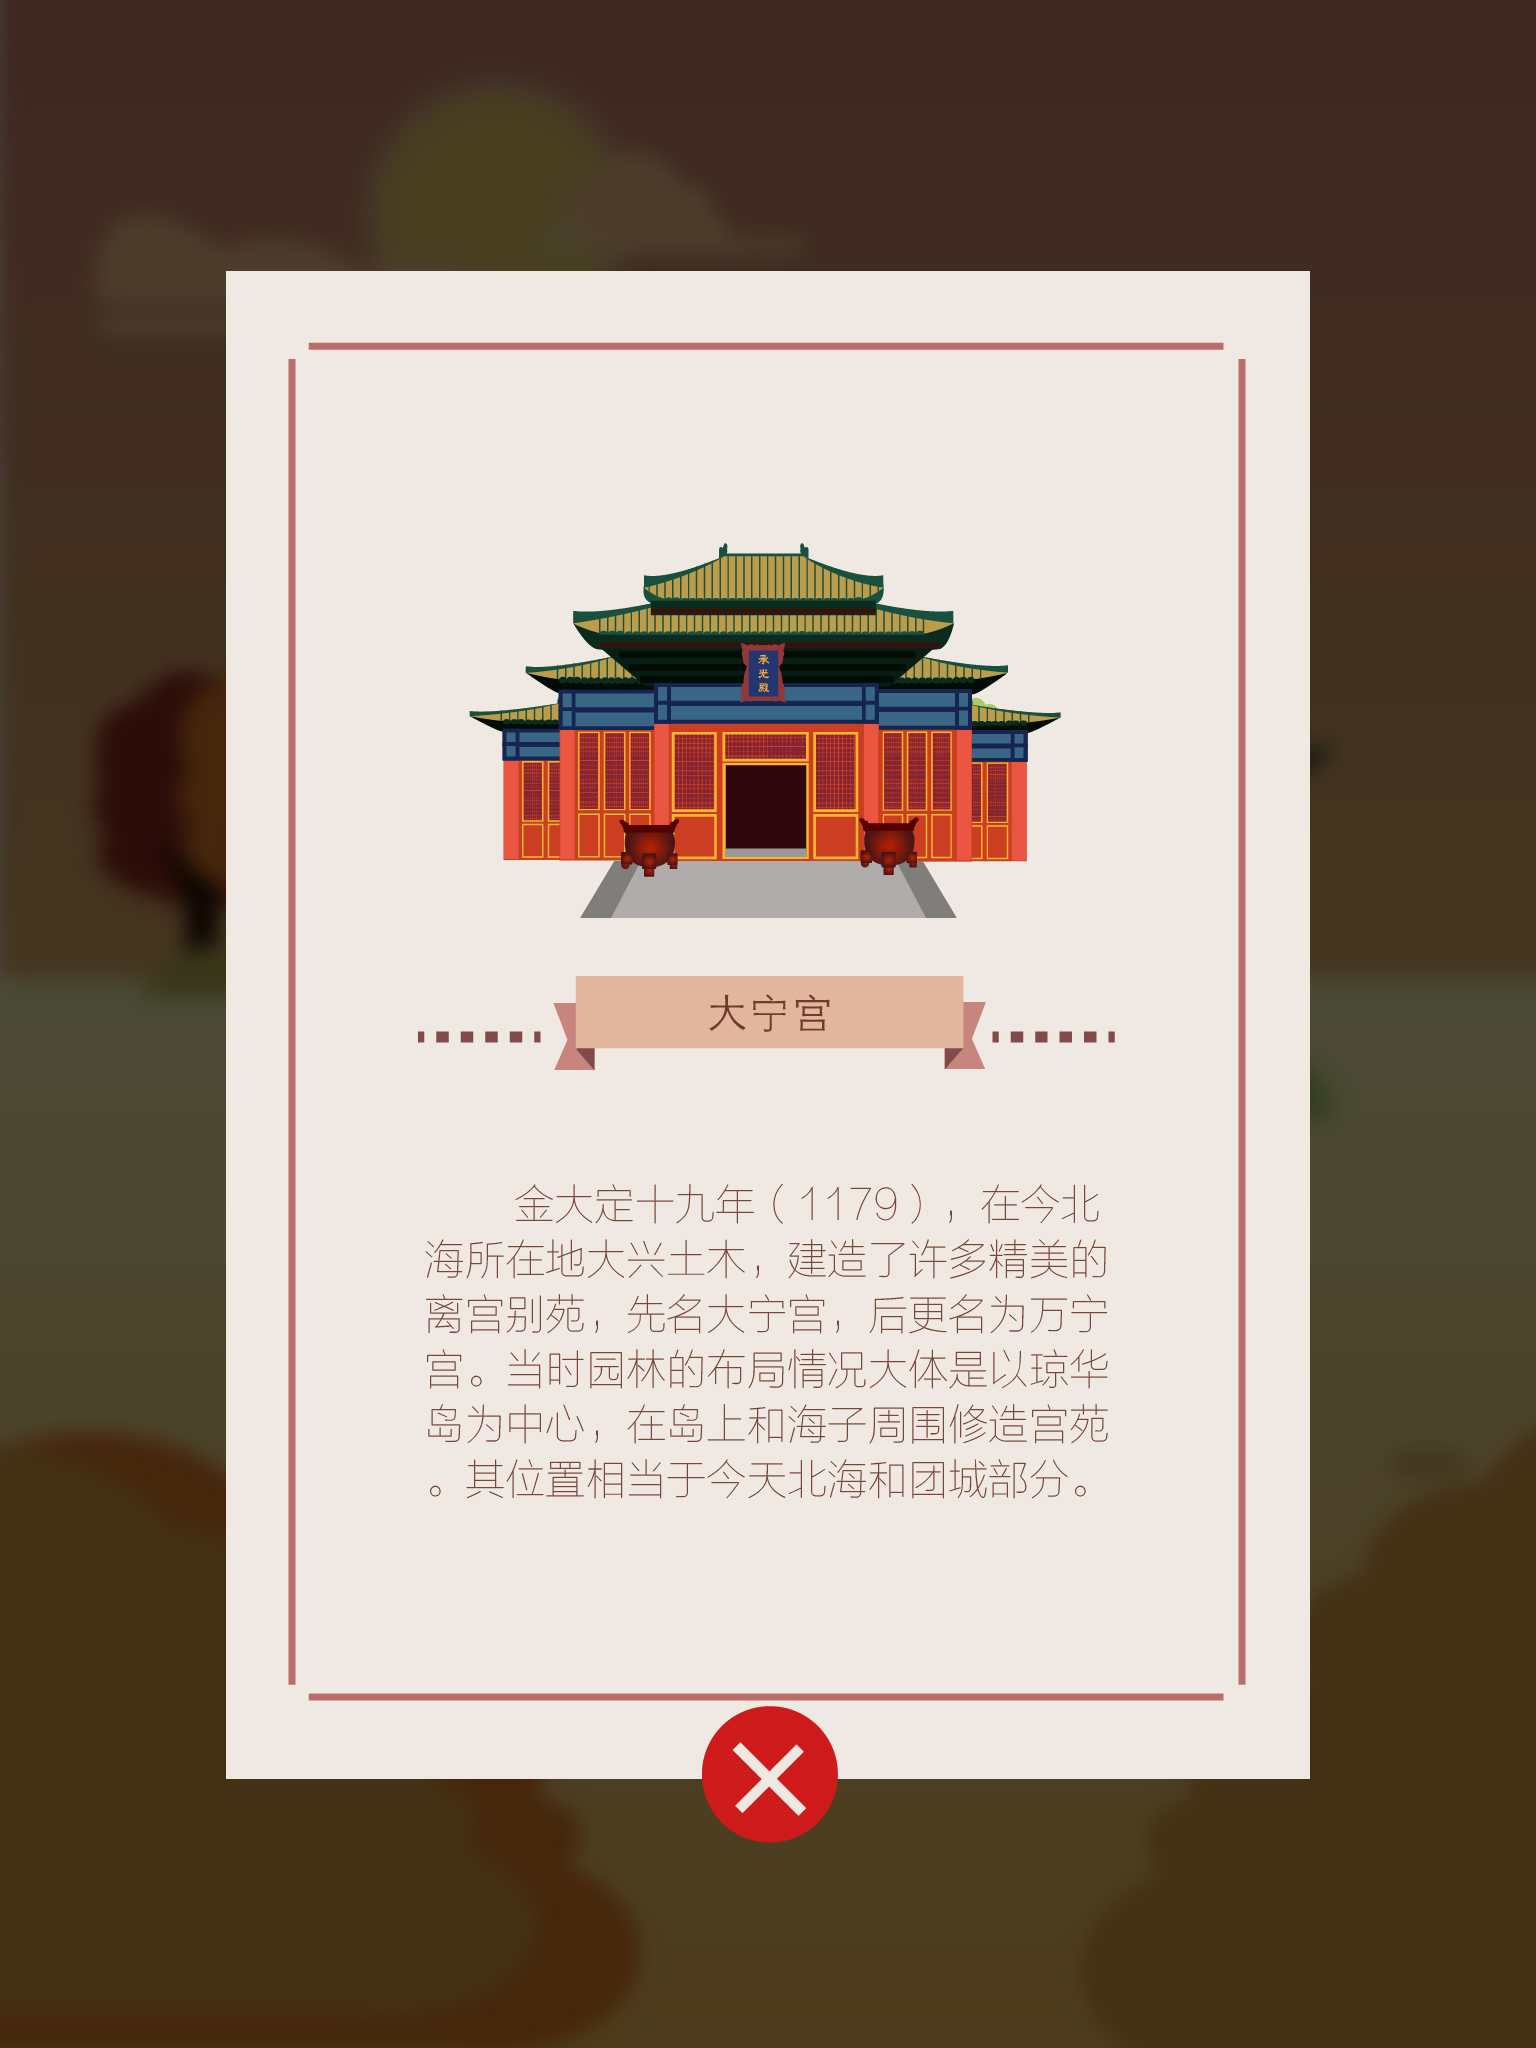
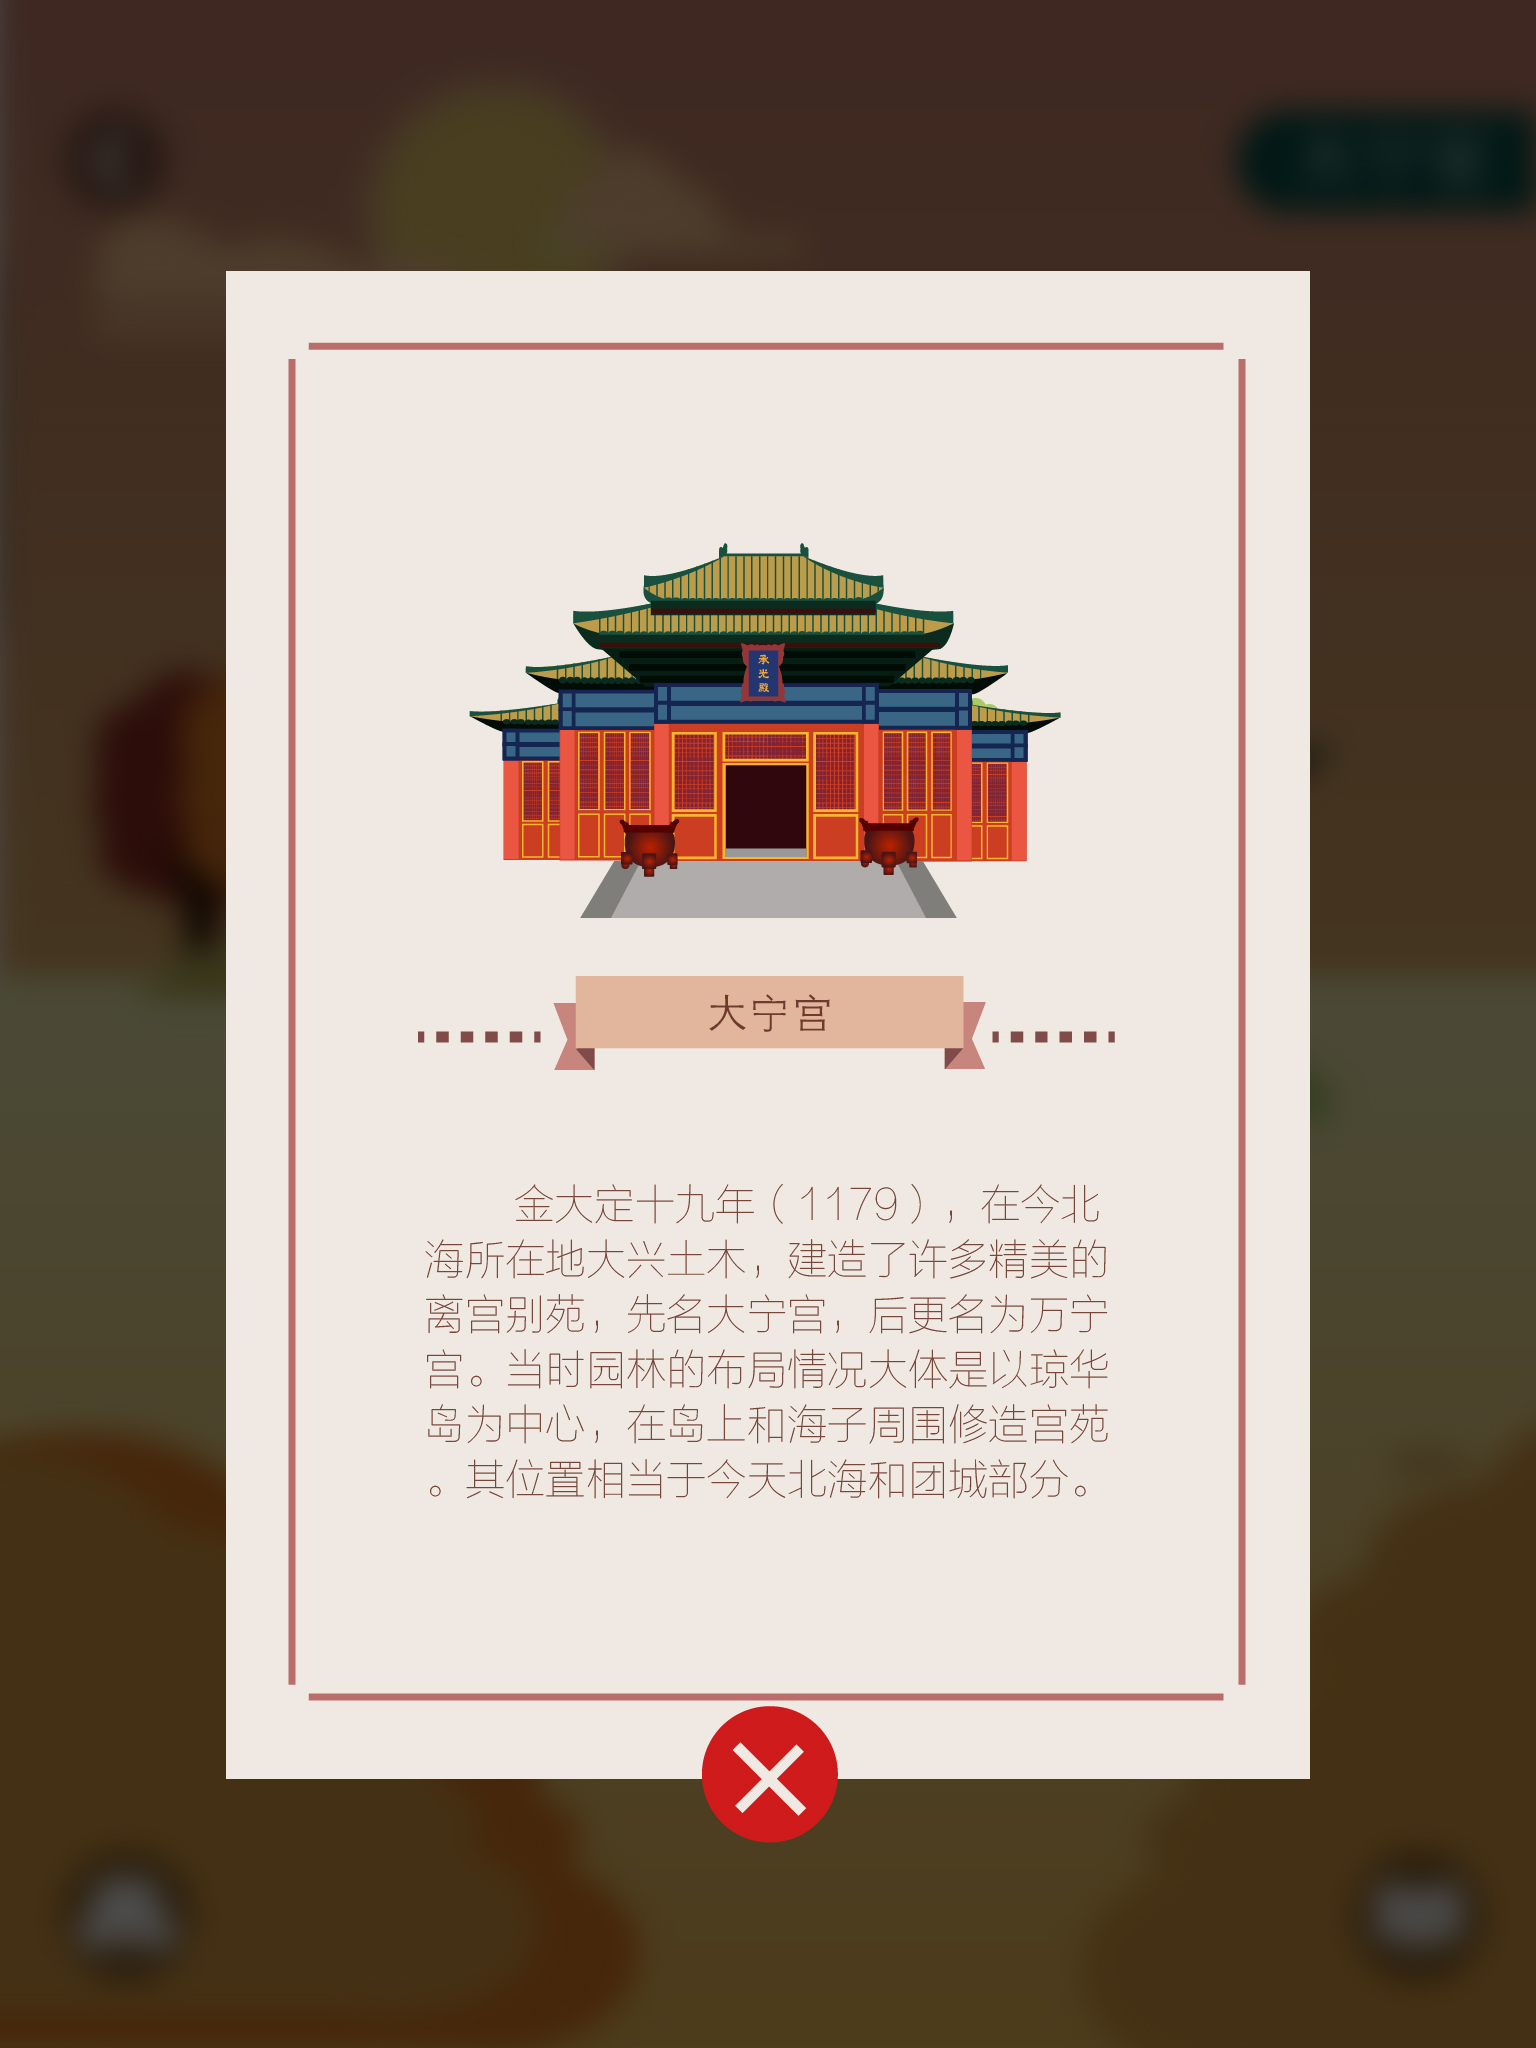
Update ZYXPadApp ...

Changed region(s): [[0.7812, 0.0312, 1.0, 0.125], [0.0625, 0.9062, 0.125, 0.9688], [0.9062, 0.9062, 0.9688, 0.9688]]

diff --git a/ZYXPadApp/skipPage/skipJs/buildingJs.js b/ZYXPadApp/skipPage/skipJs/buildingJs.js
@@ -1,8 +1,14 @@
-var swiperLength = 3;
-var pageType = 'jin';
+// var swiperLength = 3;
+// var pageType = 'jin';
+
+var swiperLength = parseInt(getUrlParam('length'));
+var pageType = getUrlParam('type');
+var init = parseInt(getUrlParam('init'));
 
 $(function(){
-    $('._infoPage').hide();
+    // $('._infoPage').hide();
+    loadingSwiper();
+
 });
 
 /**
@@ -10,30 +16,50 @@ $(function(){
  * @param {*} thisIndex 
  */
 var swiperChange = function(thisIndex){
-    if(thisIndex <= swiperLength){
-        $('._infoTitle>img').attr('src', '../skipImg/' + pageType + '/' + pageType + '_' + thisIndex + '_title.png');
-        $('._infoPage>img').attr('src', '../skipImg/' + pageType + '/' + pageType + '_' + thisIndex + '_1.jpg');
-    }else{
-        $('._infoTitle>img').attr('src', '../skipImg/' + pageType + '/' + pageType + '_1_title.png');
-        $('._infoPage>img').attr('src', '../skipImg/' + pageType + '/' + pageType + '_1_1.jpg');
+    if(thisIndex == 0){
+        $('._infoTitle>img').attr('src', 'skipImg/' + pageType + '/' + pageType + '_' + swiperLength + '_title.png');
+        $('._infoPage>img').attr('src', 'skipImg/' + pageType + '/' + pageType + '_' + swiperLength + '_1.jpg');
+    }
+    if(thisIndex <= swiperLength && thisIndex > 0){
+        $('._infoTitle>img').attr('src', 'skipImg/' + pageType + '/' + pageType + '_' + thisIndex + '_title.png');
+        $('._infoPage>img').attr('src', 'skipImg/' + pageType + '/' + pageType + '_' + thisIndex + '_1.jpg');
+    }
+    if(thisIndex == (swiperLength + 1)){
+        $('._infoTitle>img').attr('src', 'skipImg/' + pageType + '/' + pageType + '_1_title.png');
+        $('._infoPage>img').attr('src', 'skipImg/' + pageType + '/' + pageType + '_1_1.jpg');
     }
 };
 
 /**
  * swiper loading
  */
-var swiper = new Swiper('.swiper-container', {
-    initialSlide :0,
-    loop : true,
-    pagination: {
-        el: '.swiper-pagination',
-    },
-    on: {
-        slideChangeTransitionStart: function(){
-            swiperChange(this.activeIndex);
+var loadingSwiper = function(){
+    creatSwiper();
+    var swiper = new Swiper('.swiper-container', {
+        initialSlide :(init - 1),
+        loop : true,
+        pagination: {
+            el: '.swiper-pagination',
         },
-    },
-});
+        on: {
+            slideChangeTransitionStart: function(){
+                swiperChange(this.activeIndex);
+            },
+        },
+    });
+}
+
+var creatSwiper = function(){
+    $('.swiper-wrapper').empty();
+    for(var i = 1; i <= swiperLength; i++){
+        $('.swiper-wrapper').append(swiperHtml(i));
+    }
+}
+
+var swiperHtml = function(num){
+    return '<div class="swiper-slide"><img src="skipImg/' + pageType + '/' + pageType + '_' + num + '.jpg"></div>';
+}
+
 
 //back
 $('._back').on('click', function(){
@@ -57,4 +83,12 @@ $('._infoPage>div').on('click', function(){
 
 
 
-
+/**
+ * getUrlParam
+ * @param {urlName} name 
+ */
+function getUrlParam(name) {
+    var reg = new RegExp("(^|&)" + name + "=([^&]*)(&|$)");
+    var r = window.location.search.substr(1).match(reg); 
+    if (r != null) return unescape(r[2]); return null; 
+}

diff --git a/ZYXPadApp/skipPage/buildingPage.html b/ZYXPadApp/skipPage/buildingPage.html
@@ -1,0 +1,49 @@
+<!DOCTYPE html>
+<html lang="en">
+<head>
+  <meta charset="utf-8">
+  <title>Swiper demo</title>
+  <meta name="viewport" content="width=device-width, initial-scale=1, minimum-scale=1, maximum-scale=1">
+
+  <link rel="stylesheet" href="../_css/swiper/swiper.min.css">
+  <link rel="stylesheet" href="skipCss/buildingCss.css">
+
+</head>
+<body>
+    <!-- back button -->
+    <div class="_back">
+        <img src="skipImg/public/back.png">
+    </div>
+
+    <!-- info title -->
+    <div class="_infoTitle">
+       <img src="skipImg/jin/jin_1_title.png">
+    </div>
+
+    <!-- back index button -->
+    <div class="_backIndex">
+        <img src="skipImg/public/backIndex.png">
+    </div>
+    
+    <!-- info button -->
+    <div class="_info">
+        <img src="skipImg/public/info.png">
+    </div>
+    <!-- info page -->
+    <div class="_infoPage">
+        <img src="skipImg/jin/jin_1_1.jpg">
+        <div class="_closeInfo"></div>
+    </div>
+    <!-- Swiper -->
+    <div class="swiper-container">
+        <div class="swiper-wrapper">
+        </div>
+        <!-- Add Pagination -->
+        <div class="swiper-pagination"></div>
+    </div>
+    
+    <script src="skipJs/jquery.min.js"></script>
+    <script src="../_js/swiper/swiper.min.js"></script>
+    <script src="skipJs/buildingJs.js"></script>
+</body>
+</html>

diff --git a/ZYXPadApp/skipPage/mapPage.html b/ZYXPadApp/skipPage/mapPage.html
@@ -1,0 +1,38 @@
+<!DOCTYPE html>
+<html lang="en">
+<head>
+  <meta charset="utf-8">
+  <title>Swiper demo</title>
+  <meta name="viewport" content="width=device-width, initial-scale=1, minimum-scale=1, maximum-scale=1">
+
+  <link rel="stylesheet" href="../_css/swiper/swiper.min.css">
+  <link rel="stylesheet" href="skipCss/mapCss.css">
+
+</head>
+<body>
+    <div class="_main_div">
+        <img src="skipImg/jin/jin_bg.jpg">
+    </div>
+    <div class="swiper-container">
+        <div class="swiper-wrapper">
+            <div class="swiper-slide">
+                <img src="skipImg/jin/jin_info.png">
+            </div>
+            <div class="swiper-slide">
+                <img src="skipImg/jin/jin_map.png">
+            </div>
+            <div class="swiper-slide">
+                <img src="skipImg/jin/jin_str.png">
+            </div>
+        </div>
+        <!-- Add Pagination -->
+        <div class="swiper-pagination"></div>
+    </div>
+    <div class="_footerBtn">
+        <img src="skipImg/public/mapBtn.png">
+    </div>
+    <script src="skipJs/jquery.min.js"></script>
+    <script src="../_js/swiper/swiper.min.js"></script>
+    <script src="skipJs/mapJs.js"></script>
+</body>
+</html>

diff --git a/ZYXPadApp/skipPage/skipJs/mapJs.js b/ZYXPadApp/skipPage/skipJs/mapJs.js
@@ -1,0 +1,44 @@
+var pageType = getUrlParam('type');
+
+/**
+ * info title change
+ * @param {*} thisIndex 
+ */
+var swiperChange = function(thisIndex){
+    var info = 'skipImg/public/infoBtn.png';
+    var map = 'skipImg/public/mapBtn.png';
+    var str = 'skipImg/public/strBtn.png';
+    switch(thisIndex){
+        case 0: $('._footerBtn>img').attr('src', str);
+        break;
+        case 1: $('._footerBtn>img').attr('src', map);
+        break;
+        case 2: $('._footerBtn>img').attr('src', map);
+        break;
+        case 3: $('._footerBtn>img').attr('src', str);
+        break;
+        case 4: $('._footerBtn>img').attr('src', info);
+        break;
+    }
+};
+
+var swiper = new Swiper('.swiper-container', {
+    initialSlide :0,
+    on: {
+        slideChangeTransitionStart: function(){
+            console.log(this.activeIndex);
+            swiperChange(this.activeIndex);
+        },
+    },
+});
+
+
+/**
+ * getUrlParam
+ * @param {urlName} name 
+ */
+function getUrlParam(name) {
+    var reg = new RegExp("(^|&)" + name + "=([^&]*)(&|$)");
+    var r = window.location.search.substr(1).match(reg); 
+    if (r != null) return unescape(r[2]); return null; 
+}

diff --git a/ZYXPadApp/skipPage/skipCss/buildingCss.css b/ZYXPadApp/skipPage/skipCss/buildingCss.css
@@ -18,51 +18,53 @@ body {
     width: 100%;
 }
 body>._back{
-  width: 75px;
-  height: 75px;
+  width: 50px;
+  height: 50px;
   position: absolute;
-  /* background-color: rebeccapurple; */
   z-index: 3;
+  top: 54px;
+  left: 33px;
 }
 body>._back>img{
   width: 100%;
 }
 body>._infoTitle{
-  /* width: 75px; */
-  /* height: 75px; */
+  height: 50px;
   position: absolute;
   /* background-color: peru; */
-  top: 0;
+  top: 54px;
   right: 0;
   z-index: 3;
 }
 body>._infoTitle>img{
-  width: 100%;
+  height: 100%;
 }
 body>._backIndex{
-  width: 130px;
-  height: 130px;
+  width: 60px;
+  height: 60px;
   position: absolute;
   /* background-color: peru; */
   z-index: 3;
-  bottom: 0;
+  left: 33px;
+  bottom: 36px;
 }
 body>._backIndex>img{
   width: 100%;
 }
 body>._info{
-  width: 130px;
-  height: 130px;
+  width: 60px;
+  height: 60px;
   position: absolute;
   /* background-color: red; */
   z-index: 3;
-  bottom: 0;
-  right: 0;
+  right: 33px;
+  bottom: 36px;
 }
 body>._info>img{
   width: 100%;
 }
 body>._infoPage{
+  display: none;
   position: absolute;
   width: 100%;
   height: 100%;

diff --git a/ZYXPadApp/skipPage/skipCss/mapCss.css b/ZYXPadApp/skipPage/skipCss/mapCss.css
@@ -1,0 +1,36 @@
+html, body {
+  position: relative;
+  height: 100%;
+}
+body {
+  background: #eee;
+  font-family: Helvetica Neue, Helvetica, Arial, sans-serif;
+  font-size: 14px;
+  color:#000;
+  margin: 0;
+  padding: 0;
+}
+body>._main_div{
+  position: absolute;
+  width: 100%;
+  height: 100%;
+}
+body>._main_div>img{
+  width: 100%;
+}
+.swiper-container {
+  width: 100%;
+  height: 100%;
+}
+.swiper-slide>img{
+    width: 100%;
+}
+body>._footerBtn{
+  position: absolute;
+  width: 344px;
+  bottom: 0;
+  left: calc(50% - 172px);
+}
+body>._footerBtn>img{
+  width: 100%;
+}
